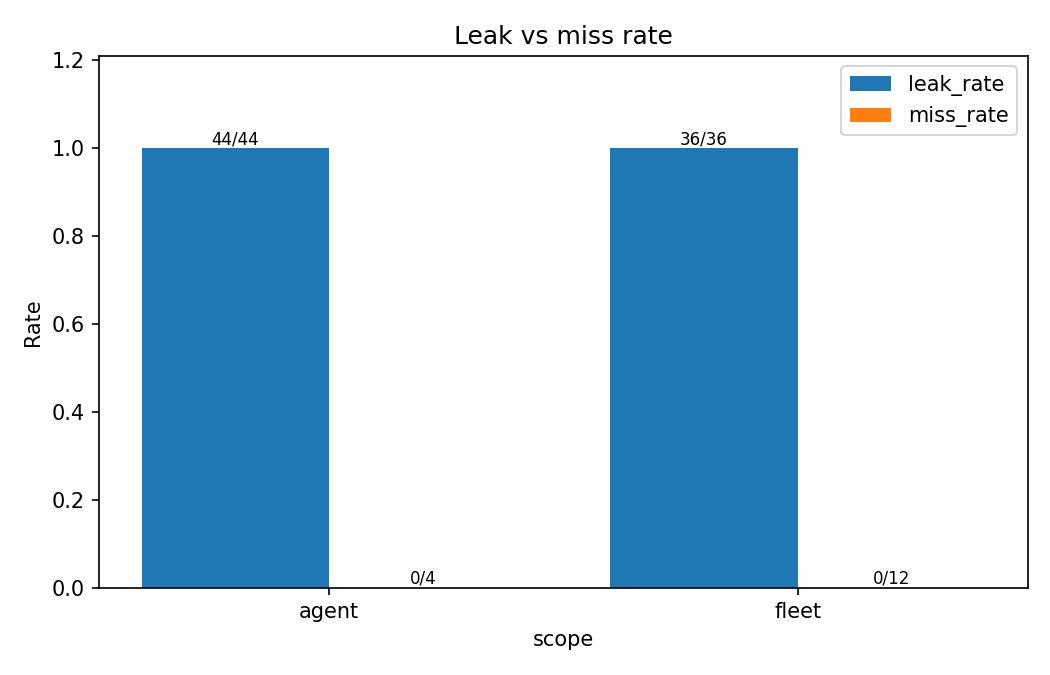
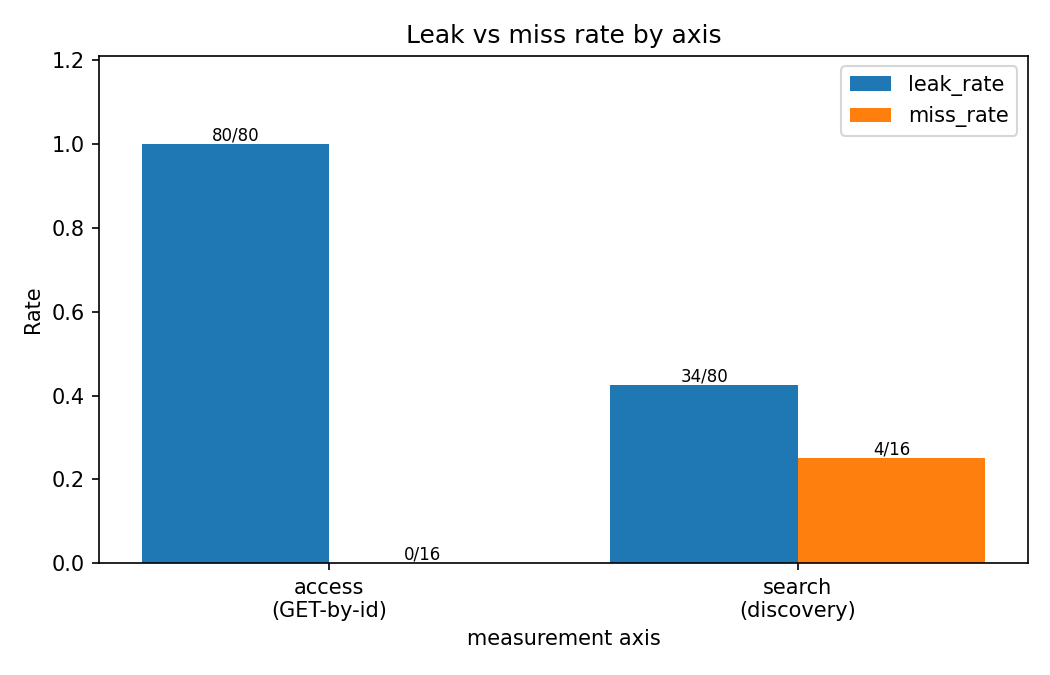
Plot leakage as access-vs-search axes so Fig 2 matches its caption
The leakage figure plotted leak/miss by scope (agent/fleet, both access
leak = 1.0), but its caption describes the access-vs-search bimodal split
and the headline search-leak (0.425) was never visualized. Add
plot_leakage_by_axis (access GET-by-id vs search discovery, each with
leak_rate and miss_rate) and switch the leakage experiment to it;
regenerate the figure. Now Fig 2 shows access leak 80/80=1.000 / miss
0/16 and search leak 34/80=0.425 / miss 4/16, matching §8.1 and Table 2.
plot_leakage_rate is retained for back-compat. 38 tests pass.

diff --git a/harness/plots.py b/harness/plots.py
@@ -71,6 +71,59 @@ def plot_leakage_rate(
     return out_path
 
 
+def plot_leakage_by_axis(
+    df: pd.DataFrame,
+    *,
+    out_path: Path,
+    title: str = "Leak vs miss rate by axis",
+) -> Path:
+    """Grouped bar chart contrasting the two measurement axes.
+
+    The leakage experiment records two orthogonal signals per probe: the
+    authoritative *access* axis (``GET``-by-id) and the secondary
+    *discovery* axis (semantic search). This figure plots both, each with
+    its ``leak_rate`` (over expected-deny) and ``miss_rate`` (over
+    expected-allow), so the bimodal-enforcement story is visible directly
+    rather than split across the table. Denominators are the full
+    expected-deny / expected-allow counts (not per-scope).
+    """
+    out_path.parent.mkdir(parents=True, exist_ok=True)
+
+    deny = int((df["expected_allow"] == False).sum()) if "expected_allow" in df else 0  # noqa: E712
+    allow = int((df["expected_allow"] == True).sum()) if "expected_allow" in df else 0  # noqa: E712
+
+    def _n(col: str) -> int:
+        return int(df[col].sum()) if col in df else 0
+
+    axes = [
+        # label, leaks, leak_denom, misses, miss_denom
+        ("access\n(GET-by-id)", _n("is_leak"), deny, _n("is_miss"), allow),
+        ("search\n(discovery)", _n("is_search_leak"), deny, _n("is_search_miss"), allow),
+    ]
+    leak_rates = [(lk / ld if ld else 0.0) for _, lk, ld, _, _ in axes]
+    miss_rates = [(ms / md if md else 0.0) for _, _, _, ms, md in axes]
+    ymax = max(0.1, max(leak_rates + miss_rates) * 1.2 + 0.01)
+
+    fig, ax = plt.subplots(figsize=(7, 4.5))
+    x = list(range(len(axes)))
+    width = 0.4
+    ax.bar([i - width / 2 for i in x], leak_rates, width=width, label="leak_rate")
+    ax.bar([i + width / 2 for i in x], miss_rates, width=width, label="miss_rate")
+    ax.set_xticks(x, [a[0] for a in axes])
+    ax.set_ylabel("Rate")
+    ax.set_xlabel("measurement axis")
+    ax.set_ylim(0.0, ymax)
+    ax.set_title(title)
+    ax.legend(loc="upper right")
+    for i, (_, lk, ld, ms, md) in enumerate(axes):
+        ax.text(i - width / 2, leak_rates[i], f"{lk}/{ld}", ha="center", va="bottom", fontsize=8)
+        ax.text(i + width / 2, miss_rates[i], f"{ms}/{md}", ha="center", va="bottom", fontsize=8)
+    fig.tight_layout()
+    fig.savefig(out_path, dpi=150)
+    plt.close(fig)
+    return out_path
+
+
 def plot_latency_hist(
     df: pd.DataFrame,
     *,

diff --git a/experiments/leakage.py b/experiments/leakage.py
@@ -50,7 +50,7 @@ from argusfleet.harness.metrics import (
     write_csv,
 )
 from argusfleet.harness.models import MemoryScope, PolicyDecision
-from argusfleet.harness.plots import plot_latency_hist, plot_leakage_rate
+from argusfleet.harness.plots import plot_latency_hist, plot_leakage_by_axis
 from argusfleet.harness.runner import (
     make_run_dir,
     open_sink_with_envelope,
@@ -508,7 +508,7 @@ def _materialize_outputs(run_dir: Path, events_path: Path) -> dict[str, Any]:
 
     if not probes.empty:
         write_csv(probes, leakage_csv)
-        plot_leakage_rate(probes, by="scope", out_path=leakage_plot)
+        plot_leakage_by_axis(probes, out_path=leakage_plot)
         plot_latency_hist(probes, col="search_latency_ms", out_path=latency_plot,
                           title="Search latency (leakage probes)")
 
